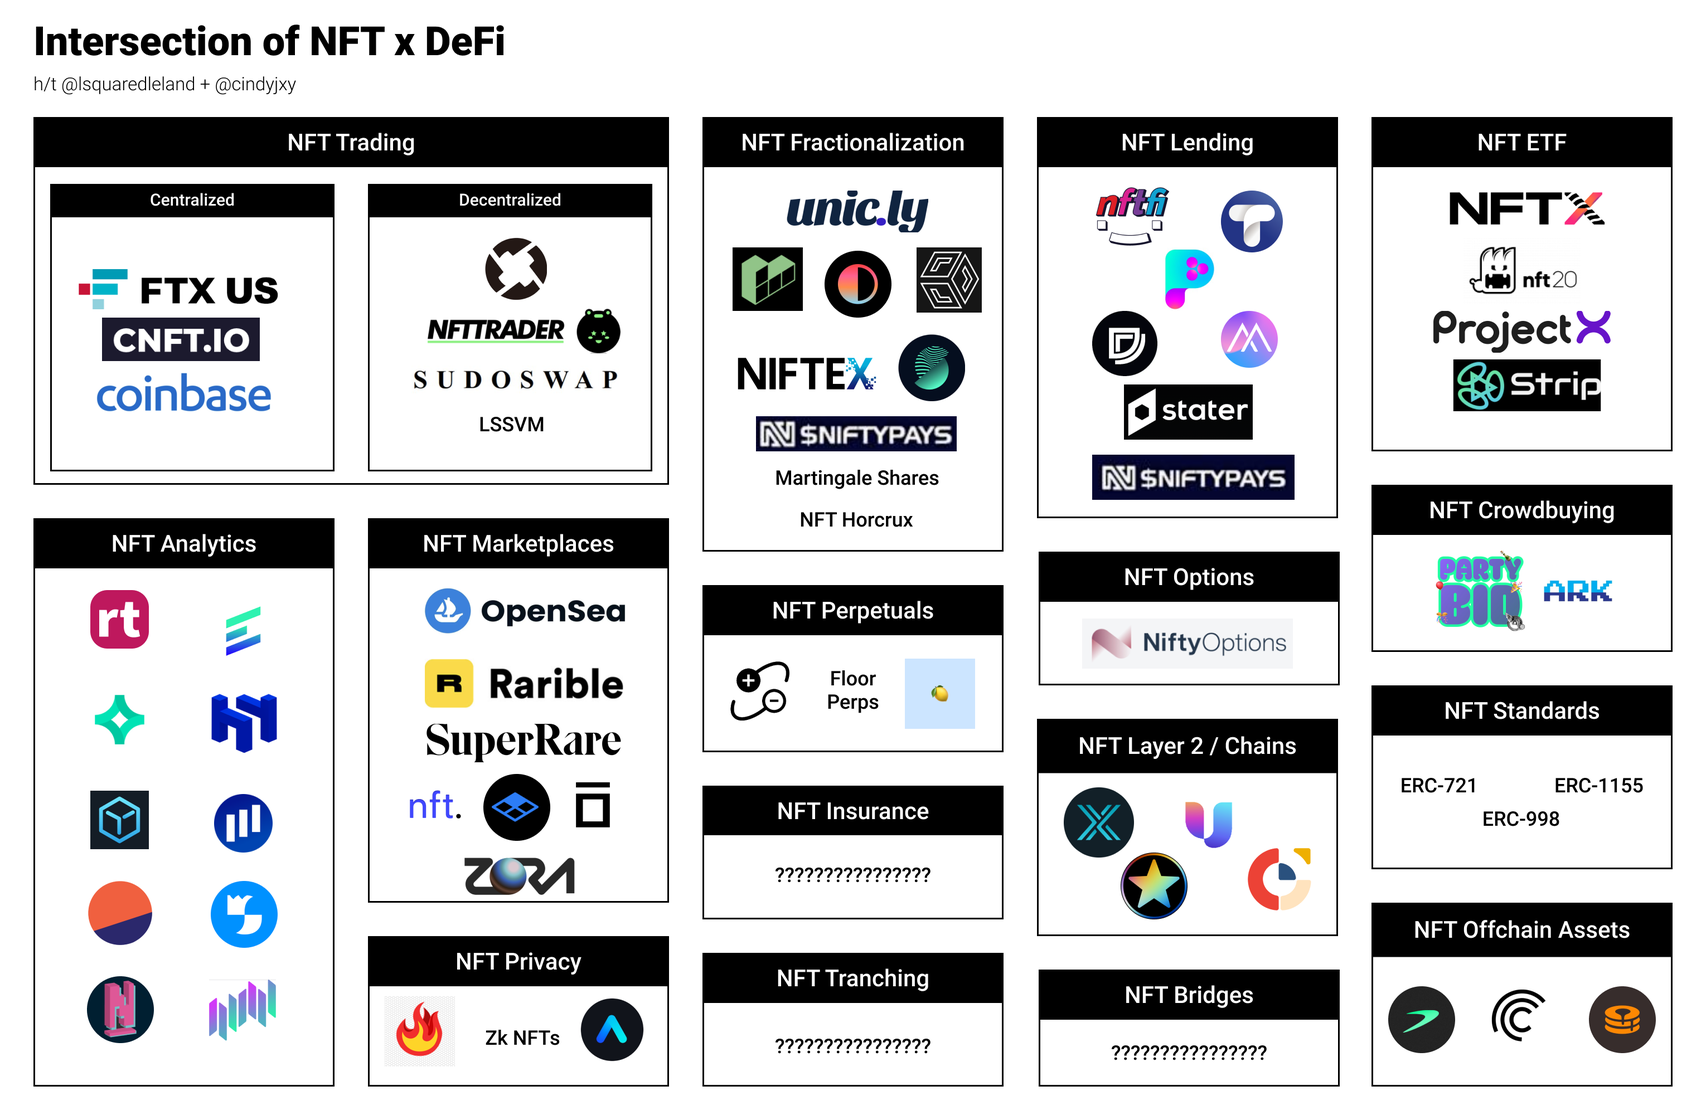
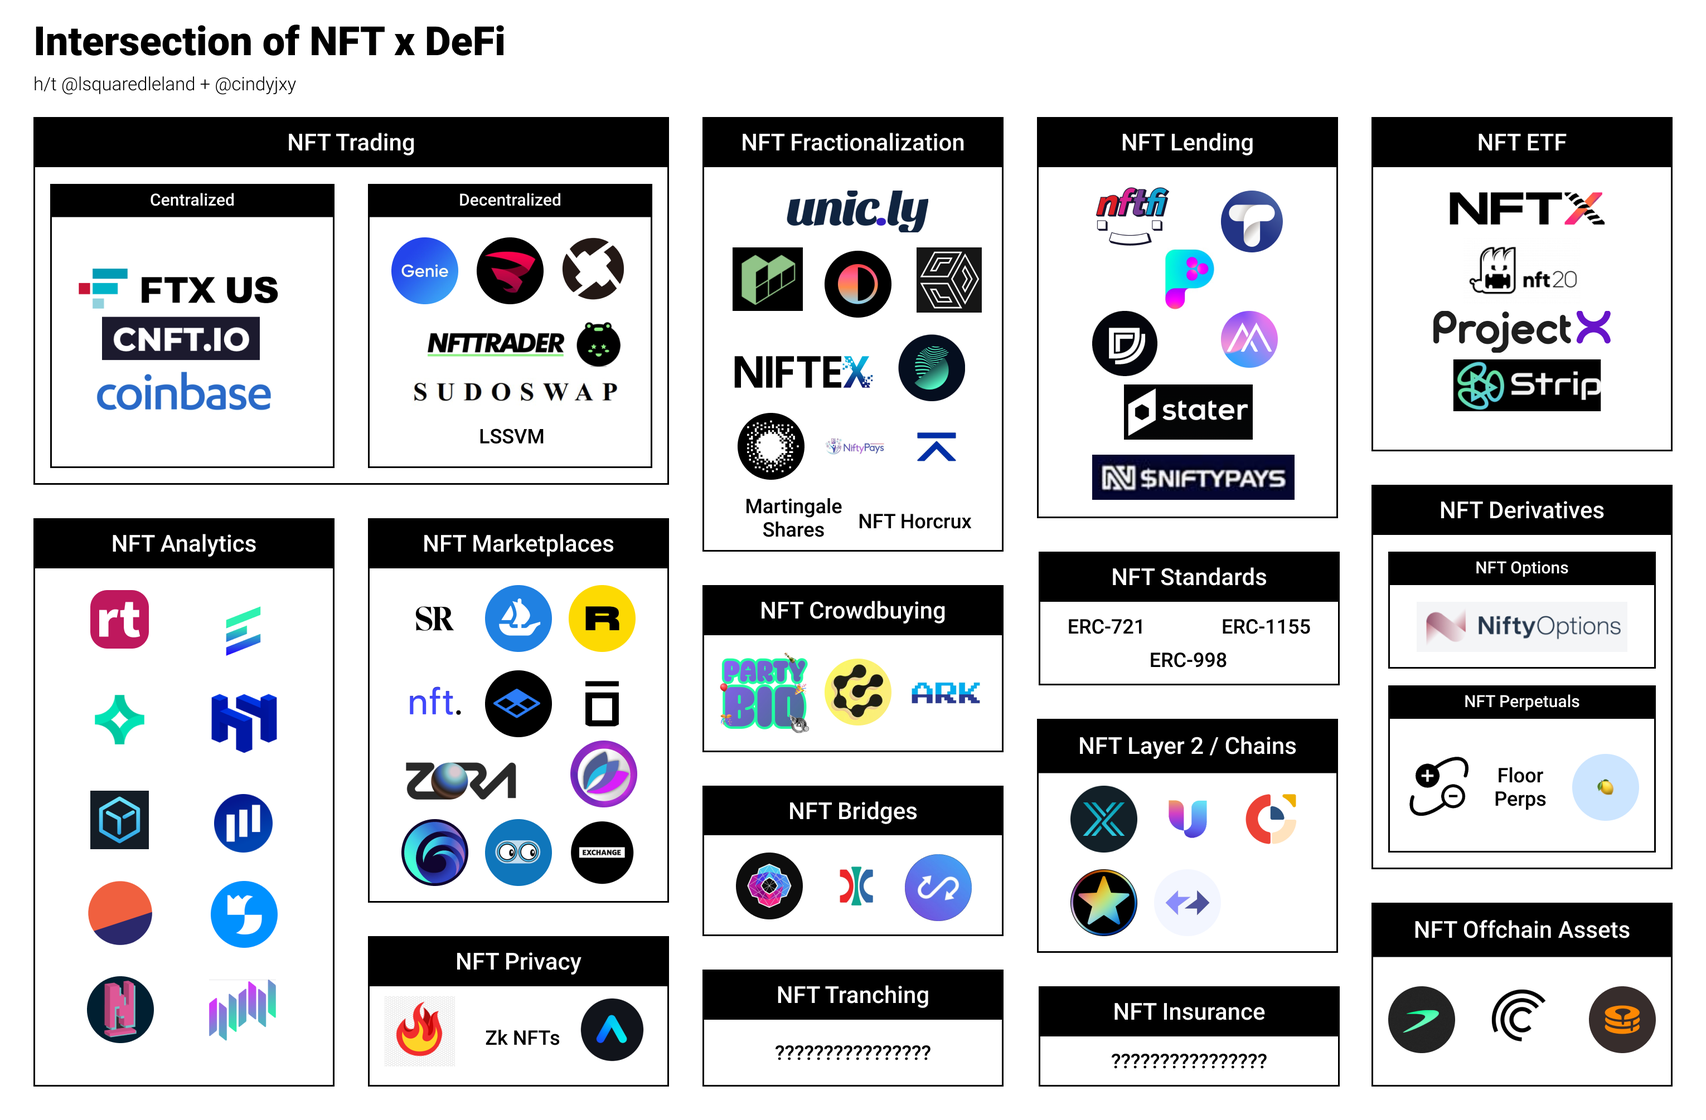
added solana projects

diff --git a/README.md b/README.md
@@ -1,99 +1,100 @@
 # NFT-DEFI
 Large list of NFT DeFi projects, with a questionable taxonomy and grouping
 
-| Category              | Sub Category  | Name              | Twitter          | Link                                                |
-|-----------------------|---------------|-------------------|------------------|-----------------------------------------------------|
-| NFT Trading           | Centralized   | FTX.US            | @FTX_Official    | https://ftx.com/en/nfts                             |
-| NFT Trading           | Centralized   | CNFT              | @CNFT_IO         | https://cnft.io/                                    |
-| NFT Trading           | Centralized   | Coinbase          | @Coinbase_NFT    | https://coinbase.com/                               |
-| NFT Trading           | Decentralized | LSSVM             |                  | https://0xmons.xyz/assets/nftamm.pdf                |
-| NFT Trading           | Decentralized | 0x Native         | @0xProject       | https://0x.org/                                     |
-| NFT Trading           | Decentralized | NFT Trader        | @NftTrader       | https://www.nfttrader.io/                           |
-| NFT Trading           | Decentralized | Sudoswap          | @sudoswap        | https://sudoswap.xyz/#/                             |
-| NFT Marketplace       |               | Opensea           | @opensea         | https://opensea.io/                                 |
-| NFT Marketplace       |               | Rarible           | @rarible         | https://rarible.com/                                |
-| NFT Marketplace       |               | SuperRare         | @SuperRare       | https://superrare.com/                              |
-| NFT Marketplace       |               | Zora              | @ourZORA         | https://zora.co/                                    |
-| NFT Marketplace       |               | Shoyu NFT         | @SHOYU_NFT       | https://www.shoyunft.com/                           |
-| NFT Marketplace       |               | Artion            |                  | https://artion.io/                                  |
-| NFT Marketplace       |               | Infinity          | @infinitydotxyz  | https://infinity.xyz/                               |
-| NFT ETF               |               | NFTX              | @NFTX_           | https://nftx.io/                                    |
-| NFT ETF               |               | NFT20             | @nft20trades     | https://nft20.io/                                   |
-| NFT ETF               |               | Project X         | @ProjectX_NFT    | https://www.projectxnft.com/                        |
-| NFT ETF               |               | Strip Finance     | @StripFinance    | https://strip.finance/                              |
-| NFT Fractionalization |               | Unicly            | @uniclyNFT       | https://www.unic.ly/                                |
-| NFT Fractionalization |               | Fractional        | @fractional_art  | https://fractional.art/                             |
-| NFT Fractionalization |               | NIFTEX            | @NIFTEXdotcom    | https://niftex.com/                                 |
-| NFT Fractionalization |               | Nonce Finance     | @noncefinance    | https://noncefinance.com/                           |
-| NFT Fractionalization |               | Martingale Shares |                  | https://www.paradigm.xyz/2021/09/martingale-shares/ |
-| NFT Fractionalization |               | NFT Horcrux       |                  | https://github.com/pringao-chevere/NFT-Horcrux      |
-| NFT Fractionalization |               | SZNS              | @sznsNFT         | https://szns.io/                                    |
-| NFT Fractionalization |               | Spectre           | @spectrexyz      | https://spectre.xyz/                                |
-| NFT Lending           |               | NFTfi             | @nftfi           | https://nftfi.com/                                  |
-| NFT Lending           |               | Taker Protocol    | @TakerProtocol   | https://taker.org/                                  |
-| NFT Lending           |               | Pawn.fi           | @Pawn_Fi         | https://www.pawn.fi/                                |
-| NFT Lending           |               | Stater            | @StaterFinance   | https://stater.co/                                  |
-| NFT Lending           |               | Drops             | @dropsnft        | https://drops.co/                                   |
-| NFT Lending           |               | Themis            | @OfficialThemis  | https://themis.exchange/                            |
-| NFT Lending           |               | NiftyPays         | @Nifty_pays      | https://www.niftypays.com/                          |
-| NFT Analytics         |               | Rarity.tool       | @raritytools     | rarity.tools                                        |
-| NFT Analytics         |               | Evaluate.market   | @EvaluateMarket  | https://evaluate.market                             |
-| NFT Analytics         |               | Nansen.ai         | @nansen_ai       | https://www.nansen.ai/                              |
-| NFT Analytics         |               | NiftyRiver        | @niftyriverio    | https://www.niftyriver.io/                          |
-| NFT Analytics         |               | Icy.tools         | @icy_tools       | https://icy.tools/                                  |
-| NFT Analytics         |               | NFT stats         | @nft_tracker     | https://www.nft-stats.com/                          |
-| NFT Analytics         |               | Dune Analytics    | @DuneAnalytics   | https://dune.xyz/                                   |
-| NFT Analytics         |               | Upshot            | @UpshotHQ        | https://upshot.io/                                  |
-| NFT Analytics         |               | NFT Price Floor   | @nftpricefloor   | https://nftpricefloor.com/                          |
-| NFT Analytics         |               | Solanalysis       | @solanalysis     | https://solanalysis.com/                            |
-| NFT Crowdbuying       |               | Ark Gallery       | @arkgalleryDAO   | https://ark.gallery                                 |
-| NFT Crowdbuying       |               | PartyBid          | @prtyDAO         | https://www.partybid.app/                           |
-| NFT Perpetuals        |               | Floor Perps       |                  | https://www.paradigm.xyz/2021/08/floor-perps/       |
-| NFT Perpetuals        |               | Antimatter        | @antimatterdefi  | https://antimatter.finance/                         |
-| NFT Perpetuals        |               | Squeeze Finance   | @SqueezeFinance  | N/A                                                 |
-| NFT Chains / L2s      |               | Immutable X       | @Immutable       | https://www.immutable.com/                          |
-| NFT Chains / L2s      |               | Anoma             | @anomanetwork    | https://anoma.network/                              |
-| NFT Chains / L2s      |               | Unifty            | @unifty_com      | https://unifty.io/                                  |
-| NFT Chains / L2s      |               | Stargaze          | @StargazeZone    | https://stargaze.zone/                              |
-| NFT Options           |               | Nifty Options     | @NiftyOptionsOrg | https://niftyoptions.org/                           |
-| Private NFTs          |               | LIT Protocol      | @LitProtocol     | https://litprotocol.com/                            |
-| Private NFts          |               | ZK NFTs           |                  | https://github.com/centrifuge/zk-nft-demo-contract  |
-| Private NFts          |               | Aleo              | @AleoHQ          | https://aleohq.com                                  |
-| NFT Standards         |               | ERC721            |                  |                                                     |
-| NFT Standards         |               | ERC1155           |                  |                                                     |
-| NFT Standards         |               | ERC998            |                  |                                                     |
-| NFT Offchain Assets   |               | Centrifuge        | @centrifuge      | https://centrifuge.io/                              |
-| NFT Offchain Assets   |               | Tellor            | @WeAreTellor     | https://www.tellor.io/                              |
-| NFT Offchain Assets   |               | Maple             | @maplefinance    | https://www.maple.finance/                          |
-| NFT Insurance         |               |                   |                  |                                                     |
-| NFT Tranching         |               |                   |                  |                                                     |
-| NFT Bridges           |               |                   |                  |                                                     |
+| Category              | Sub Category   | Name              | Twitter          | Link                                                |
+|-----------------------|----------------|-------------------|------------------|-----------------------------------------------------|
+| NFT Trading           | Centralized    | FTX.US            | @FTX_Official    | https://ftx.com/en/nfts                             |
+| NFT Trading           | Centralized    | CNFT              | @CNFT_IO         | https://cnft.io/                                    |
+| NFT Trading           | Centralized    | Coinbase          | @Coinbase_NFT    | https://coinbase.com/                               |
+| NFT Trading           | Decentralized  | LSSVM             |                  | https://0xmons.xyz/assets/nftamm.pdf                |
+| NFT Trading           | Decentralized  | 0x Native         | @0xProject       | https://0x.org/                                     |
+| NFT Trading           | Decentralized  | NFT Trader        | @NftTrader       | https://www.nfttrader.io/                           |
+| NFT Trading           | Decentralized  | Sudoswap          | @sudoswap        | https://sudoswap.xyz/#/                             |
+| NFT Trading           | Decentralized  | Genie             | @genie_xyz       | https://genie.xyz                                   |
+| NFT Trading           | Decentralized  | Burnt             | @burntfinance    | https://www.burnt.com/                              |
+| NFT Marketplace       |                | Opensea           | @opensea         | https://opensea.io/                                 |
+| NFT Marketplace       |                | Rarible           | @rarible         | https://rarible.com/                                |
+| NFT Marketplace       |                | SuperRare         | @SuperRare       | https://superrare.com/                              |
+| NFT Marketplace       |                | Zora              | @ourZORA         | https://zora.co/                                    |
+| NFT Marketplace       |                | Shoyu NFT         | @SHOYU_NFT       | https://www.shoyunft.com/                           |
+| NFT Marketplace       |                | Artion            |                  | https://artion.io/                                  |
+| NFT Marketplace       |                | Infinity          | @infinitydotxyz  | https://infinity.xyz/                               |
+| NFT Marketplace       |                | Solanart          | @SolanartNFT     | https://solanart.io/                                |
+| NFT Marketplace       |                | Magic Eden        | @MagicEden_NFT   | https://magiceden.io/                               |
+| NFT Marketplace       |                | DigitalEyes       | @digitaleyesnft  | https://digitaleyes.market/                         |
+| NFT Marketplace       |                | Solsea            | @SolSeaNFT       | https://solsea.io/                                  |
+| NFT Marketplace       |                | Exchange Art      | @exchgart        | https://exchange.art/                               |
+| NFT ETF               |                | NFTX              | @NFTX_           | https://nftx.io/                                    |
+| NFT ETF               |                | NFT20             | @nft20trades     | https://nft20.io/                                   |
+| NFT ETF               |                | Project X         | @ProjectX_NFT    | https://www.projectxnft.com/                        |
+| NFT ETF               |                | Strip Finance     | @StripFinance    | https://strip.finance/                              |
+| NFT Fractionalization |                | Unicly            | @uniclyNFT       | https://www.unic.ly/                                |
+| NFT Fractionalization |                | Fractional        | @fractional_art  | https://fractional.art/                             |
+| NFT Fractionalization |                | NIFTEX            | @NIFTEXdotcom    | https://niftex.com/                                 |
+| NFT Fractionalization |                | Nonce Finance     | @noncefinance    | https://noncefinance.com/                           |
+| NFT Fractionalization |                | Martingale Shares |                  | https://www.paradigm.xyz/2021/09/martingale-shares/ |
+| NFT Fractionalization |                | NFT Horcrux       |                  | https://github.com/pringao-chevere/NFT-Horcrux      |
+| NFT Fractionalization |                | SZNS              | @sznsNFT         | https://szns.io/                                    |
+| NFT Fractionalization |                | Spectre           | @spectrexyz      | https://spectre.xyz/                                |
+| NFT Fractionalization |                | FRAKTION          | @fraktion_art    | https://www.fraktion.art/                           |
+| NFT Fractionalization |                | Bridgesplit       | @bridgesplit     | https://www.bridgesplit.com/                        |
+| NFT Lending           |                | NFTfi             | @nftfi           | https://nftfi.com/                                  |
+| NFT Lending           |                | Taker Protocol    | @TakerProtocol   | https://taker.org/                                  |
+| NFT Lending           |                | Pawn.fi           | @Pawn_Fi         | https://www.pawn.fi/                                |
+| NFT Lending           |                | Stater            | @StaterFinance   | https://stater.co/                                  |
+| NFT Lending           |                | Drops             | @dropsnft        | https://drops.co/                                   |
+| NFT Lending           |                | Themis            | @OfficialThemis  | https://themis.exchange/                            |
+| NFT Lending           |                | NiftyPays         | @Nifty_pays      | https://www.niftypays.com/                          |
+| NFT Analytics         |                | Rarity.tool       | @raritytools     | https://rarity.tools                                |
+| NFT Analytics         |                | Evaluate.market   | @EvaluateMarket  | https://evaluate.market                             |
+| NFT Analytics         |                | Nansen.ai         | @nansen_ai       | https://www.nansen.ai/                              |
+| NFT Analytics         |                | NiftyRiver        | @niftyriverio    | https://www.niftyriver.io/                          |
+| NFT Analytics         |                | Icy.tools         | @icy_tools       | https://icy.tools/                                  |
+| NFT Analytics         |                | NFT stats         | @nft_tracker     | https://www.nft-stats.com/                          |
+| NFT Analytics         |                | Dune Analytics    | @DuneAnalytics   | https://dune.xyz/                                   |
+| NFT Analytics         |                | Upshot            | @UpshotHQ        | https://upshot.io/                                  |
+| NFT Analytics         |                | NFT Price Floor   | @nftpricefloor   | https://nftpricefloor.com/                          |
+| NFT Analytics         |                | Solanalysis       | @solanalysis     | https://solanalysis.com/                            |
+| NFT Crowdbuying       |                | Ark Gallery       | @arkgalleryDAO   | https://ark.gallery                                 |
+| NFT Crowdbuying       |                | PartyBid          | @prtyDAO         | https://www.partybid.app/                           |
+| NFT Crowdbuying       |                | Koop              | @koopxyz         |                                                     |
+| NFT Derivatives       | NFT Perpetuals | Floor Perps       |                  | https://www.paradigm.xyz/2021/08/floor-perps/       |
+| NFT Derivatives       | NFT Perpetuals | Antimatter        | @antimatterdefi  | https://antimatter.finance/                         |
+| NFT Derivatives       | NFT Perpetuals | Squeeze Finance   | @SqueezeFinance  |                                                     |
+| NFT Derivatives       | NFT Options    | Nifty Options     | @NiftyOptionsOrg | https://niftyoptions.org/                           |
+| NFT Chains / L2s      |                | Immutable X       | @Immutable       | https://www.immutable.com/                          |
+| NFT Chains / L2s      |                | Anoma             | @anomanetwork    | https://anoma.network/                              |
+| NFT Chains / L2s      |                | Unifty            | @unifty_com      | https://unifty.io/                                  |
+| NFT Chains / L2s      |                | Stargaze          | @StargazeZone    | https://stargaze.zone/                              |
+| NFT Chains / L2s      |                | zkSync            | @zksync          | https://zksync.io/dev/nfts.html                     |
+| Private NFTs          |                | LIT Protocol      | @LitProtocol     | https://litprotocol.com/                            |
+| Private NFts          |                | ZK NFTs           |                  | https://github.com/centrifuge/zk-nft-demo-contract  |
+| Private NFts          |                | Aleo              | @AleoHQ          | https://aleohq.com                                  |
+| NFT Standards         |                | ERC721            |                  |                                                     |
+| NFT Standards         |                | ERC1155           |                  |                                                     |
+| NFT Standards         |                | ERC998            |                  |                                                     |
+| NFT Offchain Assets   |                | Centrifuge        | @centrifuge      | https://centrifuge.io/                              |
+| NFT Offchain Assets   |                | Tellor            | @WeAreTellor     | https://www.tellor.io/                              |
+| NFT Offchain Assets   |                | Maple             | @maplefinance    | https://www.maple.finance/                          |
+| NFT Bridges           |                | Wormhole          | @wormholecrypto  | https://wormholebridge.com/#/                       |
+| NFT Bridges           |                | Optics            | @opticsxyz       |                                                     |
+| NFT Bridges           |                | Anyswap           | @AnyswapNetwork  | https://anyswap.exchange/                           |
+| NFT Insurance         |                |                   |                  |                                                     |
+| NFT Tranching         |                |                   |                  |                                                     |
 
 ### Taxonomy Definition
 
-_NFT Trading_ - how users trade NFTs with each other, a mix of p2p and AMM based trading
-
-_NFT Marketplaces_ - unlike trading, these applications focus on discovery and the creation of NFTs alongside the ability to buy and sell.
-
-_NFT Fractionalization_ - Converting NFTs into a tokenized representation
-
-_NFT Lending_ - Borrowing against one’s NFTs and providing liquidity to earn yield
-
-_NFT ETFs_ - Basket of NFTs and indices of arbitrary NFT collections
-
-_NFT Perpetuals_ - Instead of trading individual NFTs, now trade a liquid synthetic representation of a collection of NFTs
-
-_NFT Options_ - The ability to buy or sell an option on an NFT. Sell covered calls for passive income or speculate on the future price with options in a capital efficient manner
-
-_NFT Crowd Buying_ - Enabling a group of individuals to buy NFTs together
-
-_NFT Insurance_ - Underwriting the value of an NFT in case a protocol is hacked
-
-_NFT Chains / L2s_ - Specific chains and L2s that are NFT first
-
-_NFT Bridges_ - Connecting NFTs with multiple blockchains, potentially moving them to places with more sophisticated auction protocols or more liquid DeFi opportunities.
-
-_NFT Privacy_ - Making NFTs private, either the data or the ownership
-
-_NFT Analytics_ - helping people understand the what is happening within an NFT collection
+* _NFT Trading_ - how users trade NFTs with each other, a mix of p2p and AMM based trading
+* _NFT Marketplaces_ - unlike trading, these applications focus on discovery and the creation of NFTs alongside the ability to buy and sell.
+* _NFT Fractionalization_ - Converting NFTs into a tokenized representation
+* _NFT Lending_ - Borrowing against one’s NFTs and providing liquidity to earn yield
+* _NFT ETFs_ - Basket of NFTs and indices of arbitrary NFT collections
+* _NFT Perpetuals_ - Instead of trading individual NFTs, now trade a liquid synthetic representation of a collection of NFTs
+* _NFT Options_ - The ability to buy or sell an option on an NFT. Sell covered calls for passive income or speculate on the future price with options in a capital efficient manner
+* _NFT Crowd Buying_ - Enabling a group of individuals to buy NFTs together
+* _NFT Insurance_ - Underwriting the value of an NFT in case a protocol is hacked
+* _NFT Chains / L2s_ - Specific chains and L2s that are NFT first
+* _NFT Bridges_ - Connecting NFTs with multiple blockchains, potentially moving them to places with more sophisticated auction protocols or more liquid DeFi opportunities.
+* _NFT Privacy_ - Making NFTs private, either the data or the ownership
+* _NFT Analytics_ - helping people understand the what is happening within an NFT collection
 
